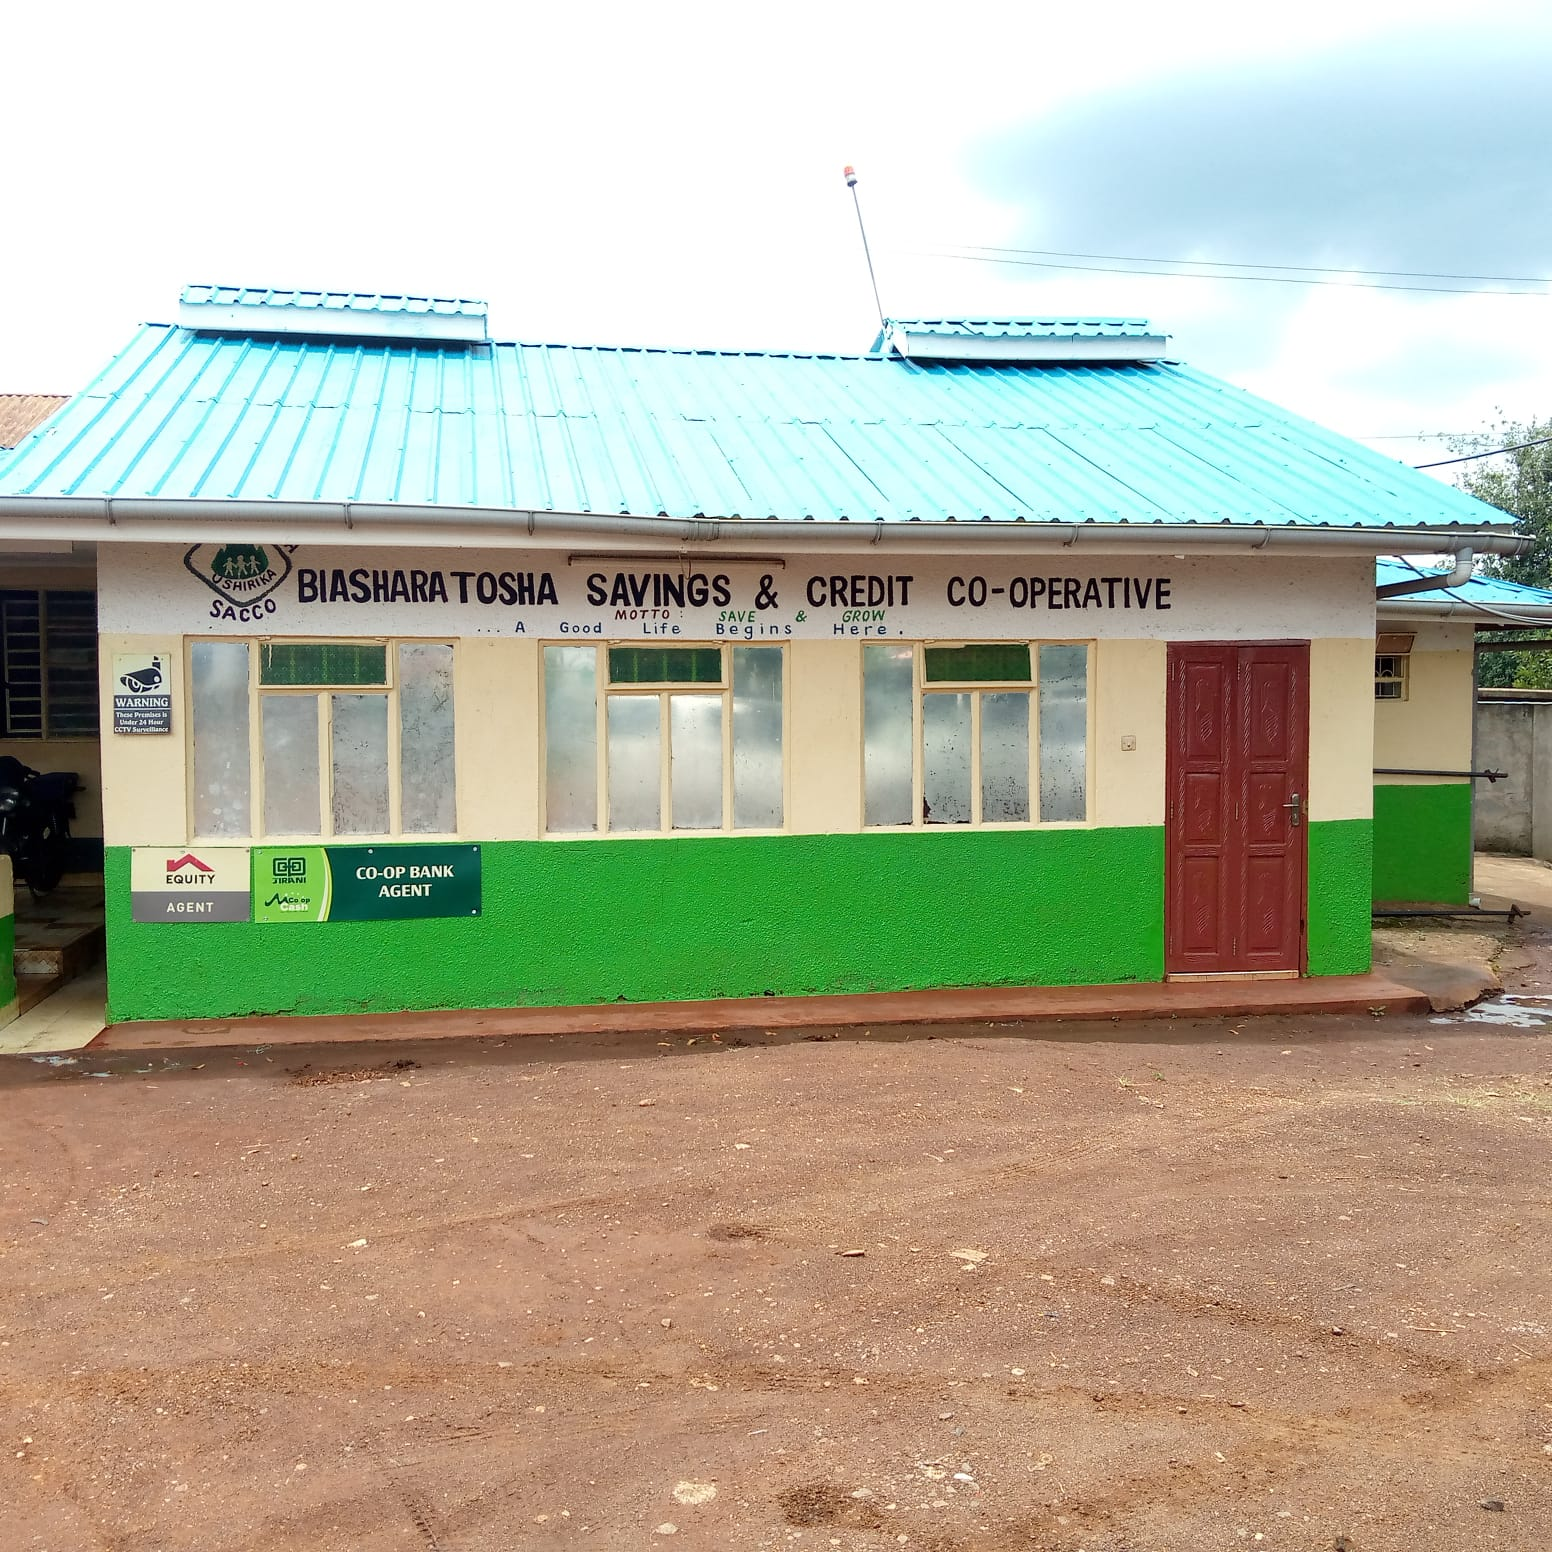
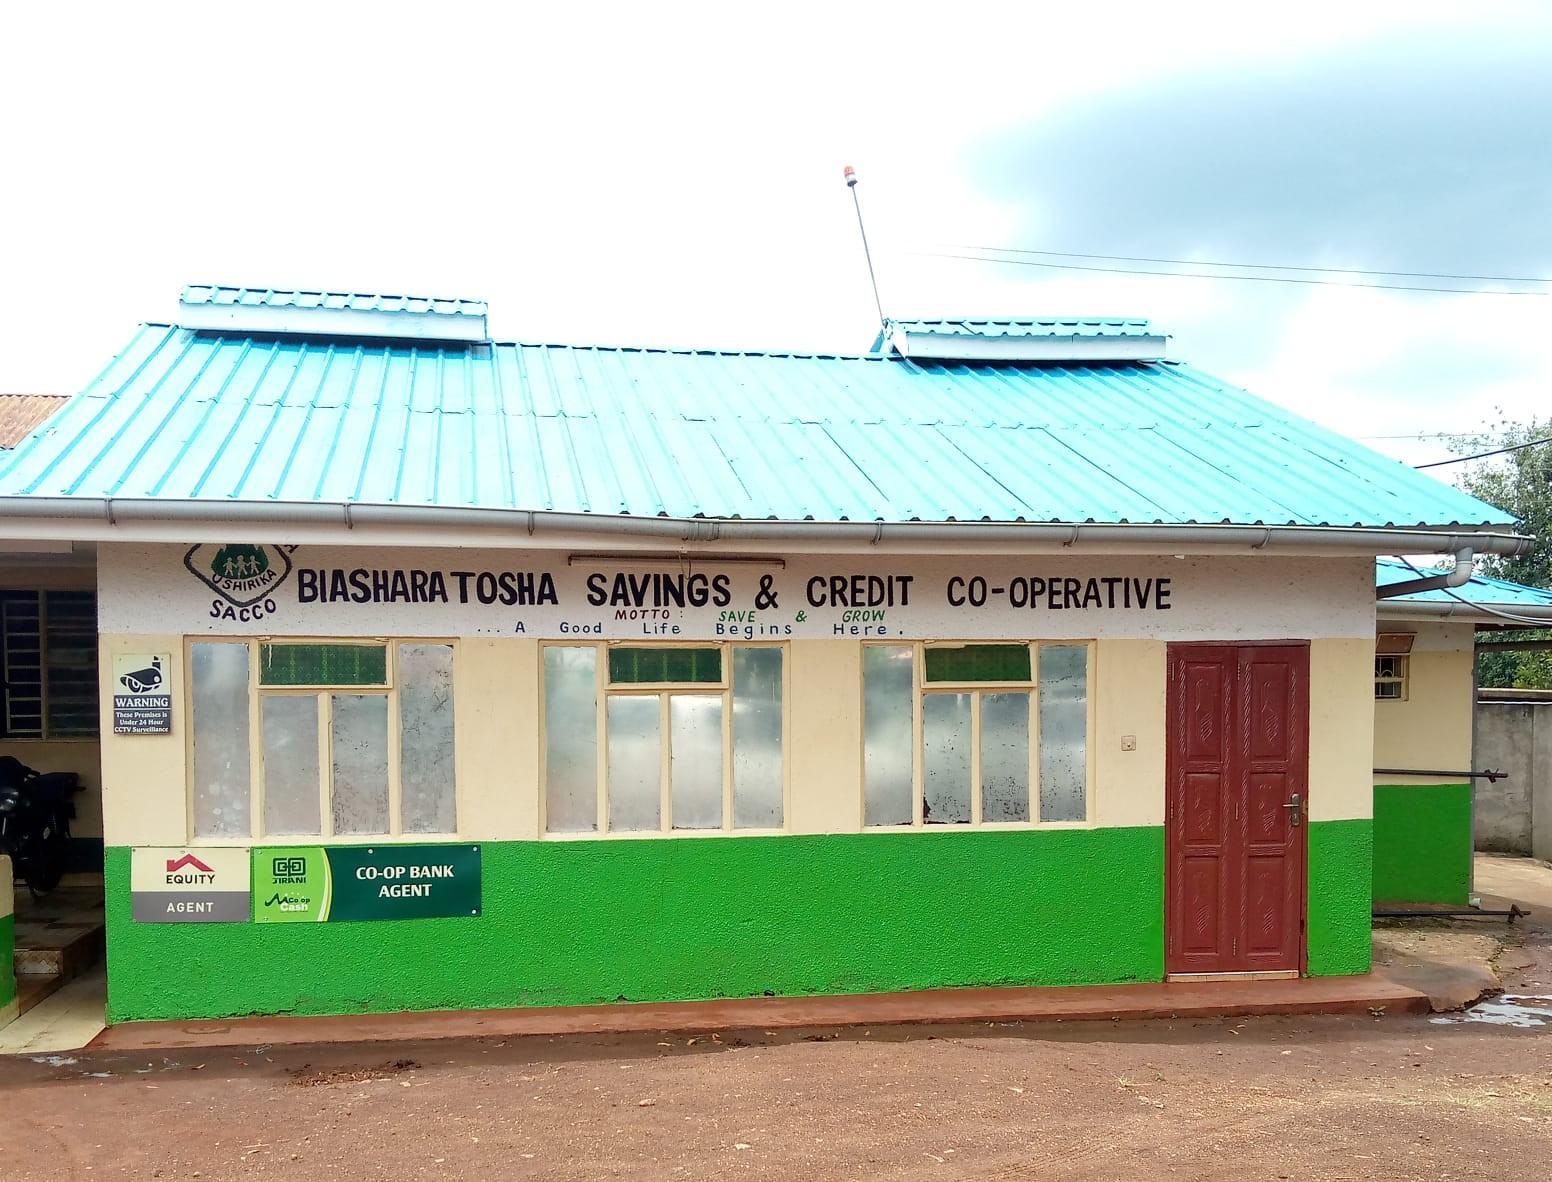
updates

diff --git a/index.html b/index.html
@@ -156,8 +156,8 @@
             <div class="row gx-5">
                 <div class="col-lg-5 mb-5 mb-lg-0" style="min-height: 500px;">
                     <div class="position-relative h-100">
-                        <img class="position-absolute w-100 h-100 rounded" src="img/herobiashara.jpeg"
-                            style="object-fit: cover;">
+                        <img class="position-absolute w-100 h-100 rounded" src="img/officeoutside.jpeg"
+                            alt="Biashara Tosha Office" style="object-fit: cover;">
                     </div>
                 </div>
                 <div class="col-lg-7">
